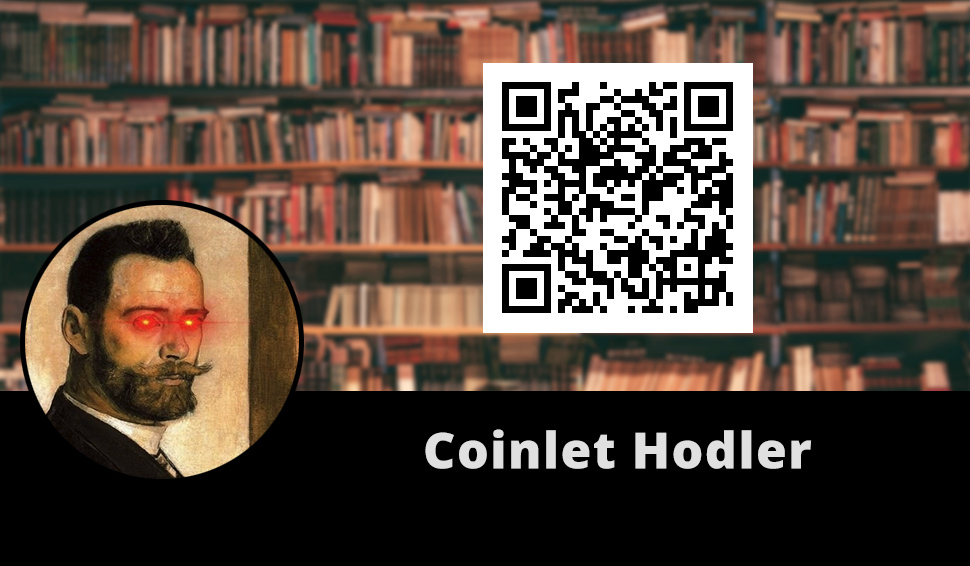
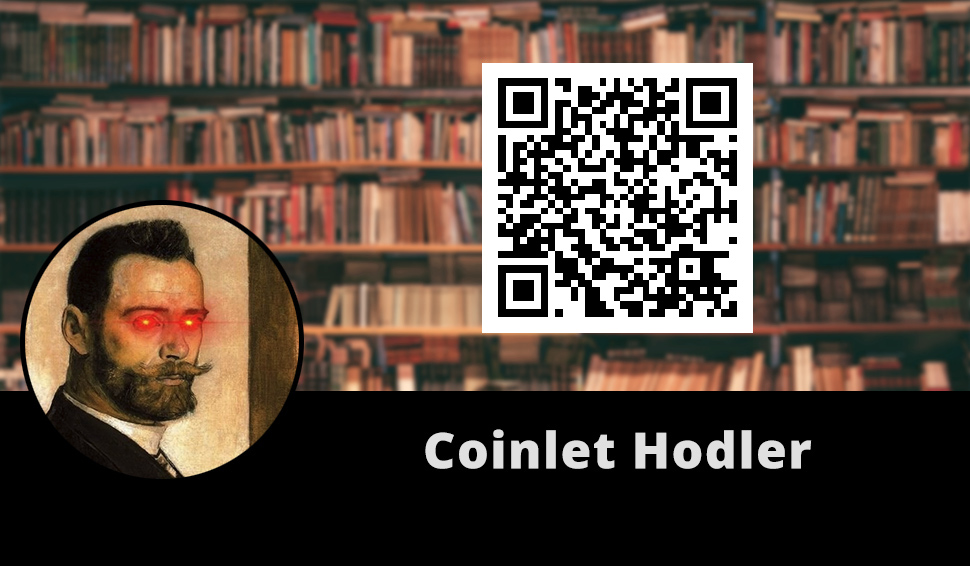
adding sedmedi's telegram channel. change coinlet hodler's lnurlp qr. open hemayat's page's links in a new window.

Changed region(s): [[0.4948, 0.1201, 0.7732, 0.5707]]

diff --git a/hemayat.html b/hemayat.html
@@ -95,14 +95,14 @@
               <ul>
                 <li>
                   <div class="pt-2 row_itemTitle_dark row_gotoLink" style="font-size:1.1em;">
-                    <a href="https://archive.org/details/ketabe-koochake-bitcoin-audio-book">
+                    <a href="https://archive.org/details/ketabe-koochake-bitcoin-audio-book" target="_blank">
                       نسخه صوتی ترجمه کتاب کوچک بیتکوین
                     </a>
                   </div>
                 </li> 
                 <li>
                   <div class="pt-2 row_itemTitle_dark row_gotoLink" style="font-size:1.1em;">
-                    <a href="https://archive.org/details/livera_ep71-farsi-coinlet_hodler">
+                    <a href="https://archive.org/details/livera_ep71-farsi-coinlet_hodler" target="_blank">
                       نسخه صوتی ترجمه مقاله مقدمهای بر اندیشه مکتب اقتصاد اتریشی؛ از منظر بیتکوین
                     </a>
                   </div>
@@ -113,7 +113,7 @@
           <div class="row ">
             <div class="col py-3 row_twitterLink"  style="background-color:#000;direction: ltr;">
               <img src="assets/images/twitter-circle-icon-256.png" style="height:30px;vertical-align: middle;"/>
-              <a href="https://www.twitter.com/coinlet_hodler"><span style="font-family: 'Segoe UI', Tahoma, Geneva, Verdana, sans-serif;font-size:0.9em;color:999;font-weight: bold;">@coinlet_hodler</span></a>
+              <a href="https://www.twitter.com/coinlet_hodler" target="_blank"><span style="font-family: 'Segoe UI', Tahoma, Geneva, Verdana, sans-serif;font-size:0.9em;color:999;font-weight: bold;">@coinlet_hodler</span></a>
             </div>
           </div>
         </div>
@@ -128,21 +128,21 @@
               <ul>
                 <li>
                   <div class="pt-2 row_itemTitle_dark row_gotoLink" style="font-size:1.1em;">
-                    <a href="https://archive.org/details/blue-wallet-mcsaeid">
+                    <a href="https://archive.org/details/blue-wallet-mcsaeid" target="_blank">
                       آموزش تصویری معرفی و آموزش کیف پول بیتکوین امن BlueWallet
                     </a>
                   </div>
                 </li> 
                 <li>
                   <div class="pt-2 row_itemTitle_dark row_gotoLink" style="font-size:1.1em;">
-                    <a href="https://archive.org/details/pruned-bitcoin-node">
+                    <a href="https://archive.org/details/pruned-bitcoin-node" target="_blank">
                       آموزش تصویری راهاندازی نود بیتکوین | Pruned Bitcoin Node
                     </a>
                   </div>
                 </li>
                 <li>
                   <div class="pt-2 row_itemTitle_dark row_gotoLink" style="font-size:1.1em;">
-                    <a href="https://archive.org/details/electrum-bitcoind">
+                    <a href="https://archive.org/details/electrum-bitcoind" target="_blank">
                       آموزش تصویری معرفی و راهاندازی سرویس تور | Tor
                     </a>
                   </div>
@@ -153,9 +153,9 @@
           <div class="row ">
             <div class="col py-3 row_twitterLink"  style="background-color:#000;direction: ltr;">
               <img src="assets/images/twitter-circle-icon-256.png" style="height:30px;vertical-align: middle;"/>
-              <a href="https://twitter.com/mcsaeid"><span style="font-family: 'Segoe UI', Tahoma, Geneva, Verdana, sans-serif;font-size:0.9em;color:999;font-weight: bold;">@mcsaeid</span></a>
+              <a href="https://twitter.com/mcsaeid" target="_blank"><span style="font-family: 'Segoe UI', Tahoma, Geneva, Verdana, sans-serif;font-size:0.9em;color:999;font-weight: bold;">@mcsaeid</span></a>
               <img src="assets/images/youtube-avatar.png" style="height:30px;vertical-align: middle;" class="pl-3"/>
-              <a href="https://www.youtube.com/playlist?list=PLE4tg-FaLq5BwzgCOzAje4J58jKHgB2BR"><span style="font-family: 'Segoe UI', Tahoma, Geneva, Verdana, sans-serif;font-size:0.9em;color:999;font-weight: bold;">YouTube Playlist</span></a>
+              <a href="https://www.youtube.com/playlist?list=PLE4tg-FaLq5BwzgCOzAje4J58jKHgB2BR" target="_blank"><span style="font-family: 'Segoe UI', Tahoma, Geneva, Verdana, sans-serif;font-size:0.9em;color:999;font-weight: bold;">YouTube Playlist</span></a>
             </div>
           </div>
         </div>
@@ -173,21 +173,21 @@
               <ul>
                 <li>
                   <div class="pt-2 row_itemTitle_dark row_gotoLink" style="font-size:1.1em;">
-                    <a href="https://www.youtube.com/c/ziya_sadr">
+                    <a href="https://www.youtube.com/c/ziya_sadr" target="_blank">
                       کانال آموزشی بیتکوین ضیاء صدر در یوتوب
                     </a>
                   </div>
                 </li> 
                 <li>
                   <div class="pt-2 row_itemTitle_dark row_gotoLink" style="font-size:1.1em;">
-                    <a href="https://bitcoind.me/blobs/articles/khastgahe-pool-nick-szabo.pdf">
+                    <a href="https://bitcoind.me/blobs/articles/khastgahe-pool-nick-szabo.pdf" target="_blank">
                       ترجمه مقاله خاستگاههای پول
                     </a>
                   </div>
                 </li>
                 <li>
                   <div class="pt-2 row_itemTitle_dark row_gotoLink" style="font-size:1.1em;">
-                    <a href="https://bitcoind.me/blobs/books/tafavote-bitcoin-va-altcoinha-bitcoind_me.pdf">
+                    <a href="https://bitcoind.me/blobs/books/tafavote-bitcoin-va-altcoinha-bitcoind_me.pdf" target="_blank">
                       ترجمه ۴ مقاله در باب بررسی تفاوتهای بیتکوین و آلتکوینها 
                     </a>
                   </div>
@@ -198,9 +198,9 @@
           <div class="row ">
             <div class="col py-3 row_twitterLink"  style="background-color:#000;direction: ltr;">
               <img src="assets/images/twitter-circle-icon-256.png" style="height:30px;vertical-align: middle;"/>
-              <a href="https://twitter.com/ziya_sadr"><span style="font-family: 'Segoe UI', Tahoma, Geneva, Verdana, sans-serif;font-size:0.9em;color:999;font-weight: bold;">@ziya_sadr</span></a>
+              <a href="https://twitter.com/ziya_sadr" target="_blank"><span style="font-family: 'Segoe UI', Tahoma, Geneva, Verdana, sans-serif;font-size:0.9em;color:999;font-weight: bold;">@ziya_sadr</span></a>
               <img src="assets/images/youtube-avatar.png" style="height:30px;vertical-align: middle;" class="pl-3"/>
-              <a href="https://www.youtube.com/c/ziya_sadr"><span style="font-family: 'Segoe UI', Tahoma, Geneva, Verdana, sans-serif;font-size:0.9em;color:999;font-weight: bold;">YouTube Channel</span></a>
+              <a href="https://www.youtube.com/c/ziya_sadr" target="_blank"><span style="font-family: 'Segoe UI', Tahoma, Geneva, Verdana, sans-serif;font-size:0.9em;color:999;font-weight: bold;">YouTube Channel</span></a>
             </div>
           </div>
         </div>
@@ -215,28 +215,28 @@
               <ul>
                 <li>
                   <div class="pt-2 row_itemTitle_dark row_gotoLink" style="font-size:1.1em;">
-                    <a href="https://bitcoind.me/blobs/tuts/raveshhaye-negahdari-az-bitcoin-bitcoind_me.pdf">
+                    <a href="https://bitcoind.me/blobs/tuts/raveshhaye-negahdari-az-bitcoin-bitcoind_me.pdf" target="_blank">
                       مقاله مروری بر روشهای امن نگهداری از بیتکوین 
                     </a>
                   </div>
                 </li>
                 <li>
                   <div class="pt-2 row_itemTitle_dark row_gotoLink" style="font-size:1.1em;">
-                    <a href="https://bitcoind.me/blobs/tuts/gen_bip39_bitcoin_seed_farsi.pdf">
+                    <a href="https://bitcoind.me/blobs/tuts/gen_bip39_bitcoin_seed_farsi.pdf" target="_blank">
                       گردآوری و ترجمه خودآموز روش تولید Seed بیتکوین با استفاده از کاغذ و تاس
                     </a>
                   </div>
                 </li>
                 <li>
                   <div class="pt-2 row_itemTitle_dark row_gotoLink" style="font-size:1.1em;">
-                    <a href="https://bitcoind.me/blobs/tuts/bitcoin-privacy-and-whirlpool-qna-farsi.pdf">
+                    <a href="https://bitcoind.me/blobs/tuts/bitcoin-privacy-and-whirlpool-qna-farsi.pdf" target="_blank">
                       ترجمه مقاله مقدمهای بر حریم خصوصی بیتکوین و سؤال و جواب درباره ویرلپولِ سامورایی 
                     </a>
                   </div>
                 </li>
                 <li>
                   <div class="pt-2 row_itemTitle_dark row_gotoLink" style="font-size:1.1em;">
-                    <a href="https://bitcoind.me/blobs/tuts/shabakeye-tor-farsi-bitcoind_me.pdf">
+                    <a href="https://bitcoind.me/blobs/tuts/shabakeye-tor-farsi-bitcoind_me.pdf" target="_blank">
                       گردآوری و ترجمه مقاله طرز کار شبکه تور و کاربرد آن در کیف پولهای بیتکوین 
                     </a>
                   </div>
@@ -260,7 +260,7 @@
               <ul>
                 <li>
                   <div class="pt-2 row_itemTitle_dark row_gotoLink" style="font-size:1.1em;">
-                    <a href="https://bitcoind.me/blobs/books/chera-bitcoin-ponzi-nist-bitcoind_me.pdf">
+                    <a href="https://bitcoind.me/blobs/books/chera-bitcoin-ponzi-nist-bitcoind_me.pdf" target="_blank">
                       ترجمه مقاله چرا بیتکوین یک طرح کلاهبرداری پانزی نیست
                     </a>
                   </div>
@@ -271,7 +271,7 @@
           <div class="row ">
             <div class="col py-3 row_twitterLink"  style="background-color:#000;direction: ltr;">
               <img src="assets/images/twitter-circle-icon-256.png" style="height:30px;vertical-align: middle;"/>
-              <a href="https://twitter.com/Mr_MB2"><span style="font-family: 'Segoe UI', Tahoma, Geneva, Verdana, sans-serif;font-size:0.9em;color:999;font-weight: bold;">@Mr_MB2</span></a>
+              <a href="https://twitter.com/Mr_MB2" target="_blank"><span style="font-family: 'Segoe UI', Tahoma, Geneva, Verdana, sans-serif;font-size:0.9em;color:999;font-weight: bold;">@Mr_MB2</span></a>
             </div>
           </div>
         </div>
@@ -285,7 +285,7 @@
               <ul>
                 <li>
                   <div class="pt-2 row_itemTitle_dark row_gotoLink" style="font-size:1.1em;">
-                    <a href="https://archive.org/details/last_days_of_satoshi_farsi_Chap_dastt">
+                    <a href="https://archive.org/details/last_days_of_satoshi_farsi_Chap_dastt" target="_blank">
                       نسخه صوتی ترجمه مقاله آخرین روزهای ساتوشی
                     </a>
                   </div>
@@ -296,7 +296,7 @@
           <div class="row ">
             <div class="col py-3 row_twitterLink"  style="background-color:#000;direction: ltr;">
               <img src="assets/images/twitter-circle-icon-256.png" style="height:30px;vertical-align: middle;"/>
-              <a href="https://twitter.com/Chap_dastt"><span style="font-family: 'Segoe UI', Tahoma, Geneva, Verdana, sans-serif;font-size:0.9em;color:999;font-weight: bold;">@Chap_dastt</span></a>
+              <a href="https://twitter.com/Chap_dastt" target="_blank"><span style="font-family: 'Segoe UI', Tahoma, Geneva, Verdana, sans-serif;font-size:0.9em;color:999;font-weight: bold;">@Chap_dastt</span></a>
             </div>
           </div>
         </div>
@@ -314,7 +314,7 @@
               <ul>
                 <li>
                   <div class="pt-2 row_itemTitle_dark row_gotoLink" style="font-size:1.1em;">
-                    <a href="https://bitcoind.me/blobs/books/ekhterae-bitcoin-farsi-nodrunner.pdf">
+                    <a href="https://bitcoind.me/blobs/books/ekhterae-bitcoin-farsi-nodrunner.pdf" target="_blank">
                       ترجمه کتاب اختراع بیتکوین 
                     </a>
                   </div>
@@ -325,7 +325,7 @@
           <div class="row ">
             <div class="col py-3 row_twitterLink"  style="background-color:#000;direction: ltr;">
               <img src="assets/images/twitter-circle-icon-256.png" style="height:30px;vertical-align: middle;"/>
-              <a href="https://twitter.com/nodrunner"><span style="font-family: 'Segoe UI', Tahoma, Geneva, Verdana, sans-serif;font-size:0.9em;color:999;font-weight: bold;">@nodrunner</span></a>
+              <a href="https://twitter.com/nodrunner" target="_blank"><span style="font-family: 'Segoe UI', Tahoma, Geneva, Verdana, sans-serif;font-size:0.9em;color:999;font-weight: bold;">@nodrunner</span></a>
             </div>
           </div>
         </div>
@@ -340,7 +340,7 @@
               <ul>
                 <li>
                   <div class="pt-2 row_itemTitle_dark row_gotoLink" style="font-size:1.1em;">
-                    <a href="https://www.youtube.com/playlist?list=PLDwI1rIhknpO1qo92LyrNstQmyeBMaMXe">
+                    <a href="https://www.youtube.com/playlist?list=PLDwI1rIhknpO1qo92LyrNstQmyeBMaMXe" target="_blank">
                       روایت تصویری پاسخ به سوالات مقدماتی بیتکوین
                     </a>
                   </div>
@@ -351,7 +351,7 @@
           <div class="row ">
             <div class="col py-3 row_twitterLink"  style="background-color:#000;direction: ltr;">
               <img src="assets/images/youtube-avatar.png" style="height:30px;vertical-align: middle;"/>
-              <a href="https://www.youtube.com/playlist?list=PLDwI1rIhknpO1qo92LyrNstQmyeBMaMXe"><span style="font-family: 'Segoe UI', Tahoma, Geneva, Verdana, sans-serif;font-size:0.9em;color:999;font-weight: bold;">YouTube Playlist</span></a>
+              <a href="https://www.youtube.com/playlist?list=PLDwI1rIhknpO1qo92LyrNstQmyeBMaMXe" target="_blank"><span style="font-family: 'Segoe UI', Tahoma, Geneva, Verdana, sans-serif;font-size:0.9em;color:999;font-weight: bold;">YouTube Playlist</span></a>
             </div>
           </div>
         </div>
@@ -368,7 +368,7 @@
               <ul>
                 <li>
                   <div class="pt-2 row_itemTitle_dark row_gotoLink" style="font-size:1.1em;">
-                    <a href="https://archive.org/details/can_governments_stop_bitcoin_farsi">
+                    <a href="https://archive.org/details/can_governments_stop_bitcoin_farsi" target="_blank">
                       نسخه صوتی ترجمه مقاله «آیا دولتها میتوانند بیتکوین را متوقف کنند؟»
                     </a>
                   </div>
@@ -379,7 +379,9 @@
           <div class="row ">
             <div class="col py-3 row_twitterLink"  style="background-color:#000;direction: ltr;">
               <img src="assets/images/twitter-circle-icon-256.png" style="height:30px;vertical-align: middle;"/>
-              <a href="https://twitter.com/sedmedi"><span style="font-family: 'Segoe UI', Tahoma, Geneva, Verdana, sans-serif;font-size:0.9em;color:999;font-weight: bold;">@sedmedi</span></a>
+              <a href="https://twitter.com/sedmedi" target="_blank"><span style="font-family: 'Segoe UI', Tahoma, Geneva, Verdana, sans-serif;font-size:0.9em;color:999;font-weight: bold;">@sedmedi</span></a>
+              <img src="assets/images/telegram-icon.png" style="height:26px;vertical-align: middle;" class="pl-3"/>
+              <a href="https://t.me/AudioBtc" target="_blank"><span style="font-family: 'Segoe UI', Tahoma, Geneva, Verdana, sans-serif;font-size:0.9em;color:999;font-weight: bold;">Telegram Channel</span></a>
             </div>
           </div>
         </div>
@@ -402,7 +404,7 @@
               <ul>
                 <li>
                   <div class="pt-2 row_itemTitle_dark row_gotoLink" style="font-size:1.1em;">
-                    <a href="https://www.youtube.com/channel/UCRpd4CYaMglhSIdi39xZP1g">
+                    <a href="https://www.youtube.com/channel/UCRpd4CYaMglhSIdi39xZP1g" target="_blank">
                       کانال آموزشی بیتکوین برای توسعهدهندگان
                     </a>
                   </div>
@@ -417,11 +419,11 @@
         <div class="row">
           <div class="col py-3 row_twitterLink"  style="background-color:#000;direction: ltr;">
             <img src="assets/images/twitter-circle-icon-256.png" style="height:30px;vertical-align: middle;"/>
-            <a href="https://www.twitter.com/_n1rna"><span style="font-family: 'Segoe UI', Tahoma, Geneva, Verdana, sans-serif;font-size:0.9em;color:999;font-weight: bold;">@_n1rna</span></a>
+            <a href="https://www.twitter.com/_n1rna" target="_blank"><span style="font-family: 'Segoe UI', Tahoma, Geneva, Verdana, sans-serif;font-size:0.9em;color:999;font-weight: bold;">@_n1rna</span></a>
             <img src="assets/images/twitter-circle-icon-256.png" style="height:30px;vertical-align: middle;" class="pl-3"/>
-            <a href="https://www.twitter.com/mytechmix"><span style="font-family: 'Segoe UI', Tahoma, Geneva, Verdana, sans-serif;font-size:0.9em;color:999;font-weight: bold;">@mytechmix</span></a>
+            <a href="https://www.twitter.com/mytechmix" target="_blank"><span style="font-family: 'Segoe UI', Tahoma, Geneva, Verdana, sans-serif;font-size:0.9em;color:999;font-weight: bold;">@mytechmix</span></a>
             <img src="assets/images/youtube-avatar.png" style="height:30px;vertical-align: middle;" class="pl-3"/>
-            <a href="https://www.youtube.com/channel/UCRpd4CYaMglhSIdi39xZP1g"><span style="font-family: 'Segoe UI', Tahoma, Geneva, Verdana, sans-serif;font-size:0.9em;color:999;font-weight: bold;">YouTube Channel</span></a>
+            <a href="https://www.youtube.com/channel/UCRpd4CYaMglhSIdi39xZP1g" target="_blank"><span style="font-family: 'Segoe UI', Tahoma, Geneva, Verdana, sans-serif;font-size:0.9em;color:999;font-weight: bold;">YouTube Channel</span></a>
           </div>
         </div>
       </div>
@@ -445,7 +447,7 @@
         <div class="row">
           <div class="col py-3 row_twitterLink"  style="background-color:#000;direction: ltr;">
             <img src="assets/images/youtube-avatar.png" style="height:30px;vertical-align: middle;"/>
-            <a href="https://www.youtube.com/playlist?list=PLYc8rgTV8DzAIMKmaNz7JUN4341IvoTFa"><span style="font-family: 'Segoe UI', Tahoma, Geneva, Verdana, sans-serif;font-size:0.9em;color:999;font-weight: bold;">YouTube Playlist</span></a>
+            <a href="https://www.youtube.com/playlist?list=PLYc8rgTV8DzAIMKmaNz7JUN4341IvoTFa" target="_blank"><span style="font-family: 'Segoe UI', Tahoma, Geneva, Verdana, sans-serif;font-size:0.9em;color:999;font-weight: bold;">YouTube Playlist</span></a>
           </div>
         </div>
       </div>
@@ -467,7 +469,7 @@
         <div class="row ">
           <div class="col py-3 row_twitterLink"  style="background-color:#000;direction: ltr;">
             <img src="assets/images/twitter-circle-icon-256.png" style="height:30px;vertical-align: middle;"/>
-            <a href="https://www.twitter.com/bitcoind_me"><span style="font-family: 'Segoe UI', Tahoma, Geneva, Verdana, sans-serif;font-size:0.9em;color:999;font-weight: bold;">@bitcoind_me</span></a>
+            <a href="https://www.twitter.com/bitcoind_me" target="_blank"><span style="font-family: 'Segoe UI', Tahoma, Geneva, Verdana, sans-serif;font-size:0.9em;color:999;font-weight: bold;">@bitcoind_me</span></a>
           </div>
         </div>
       </div>
